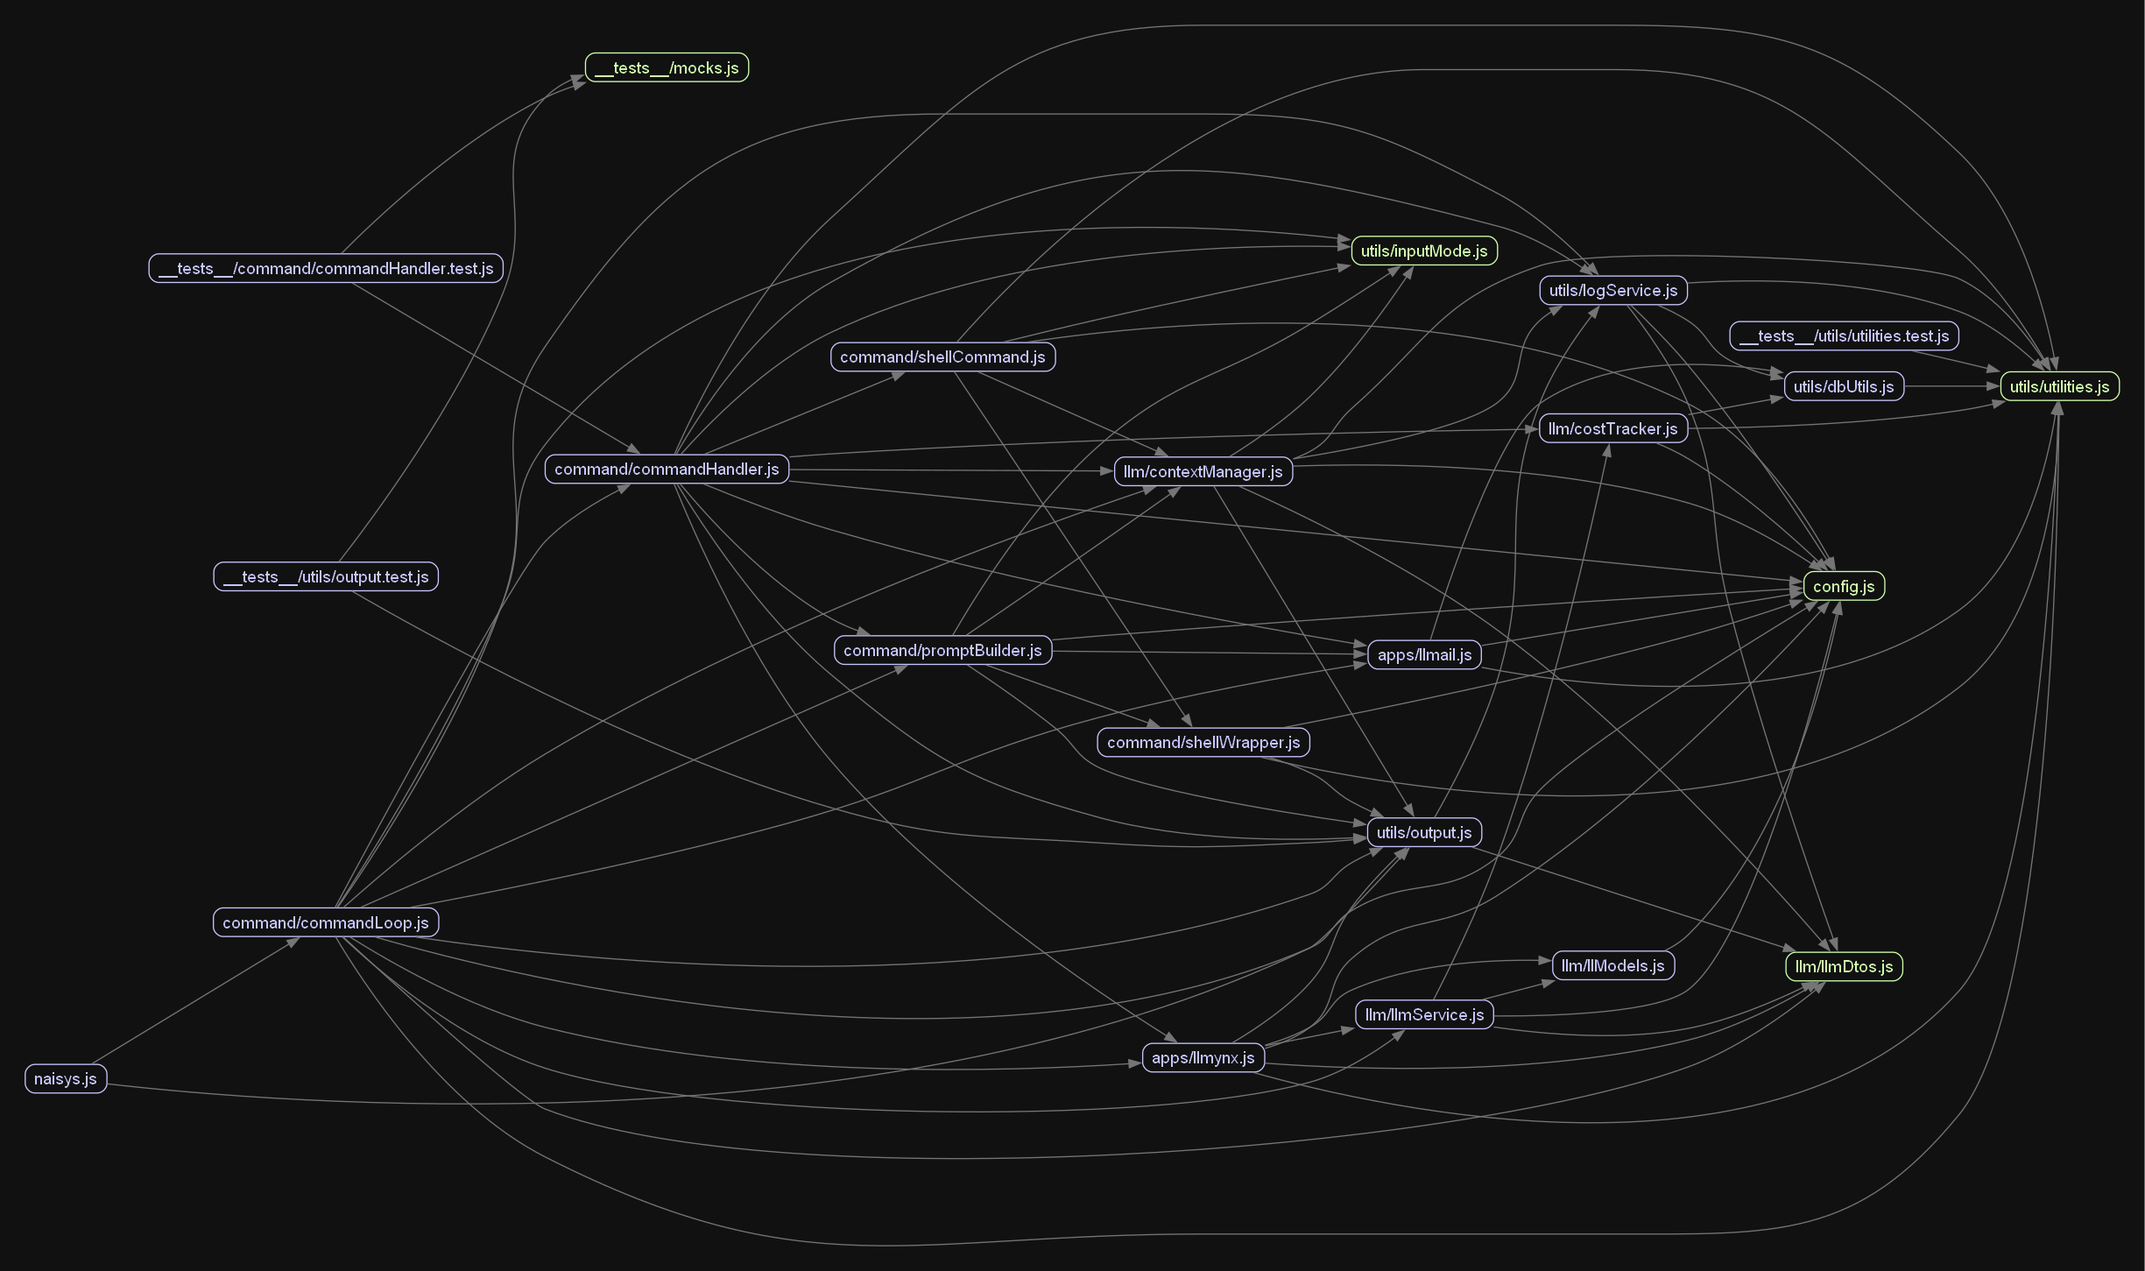
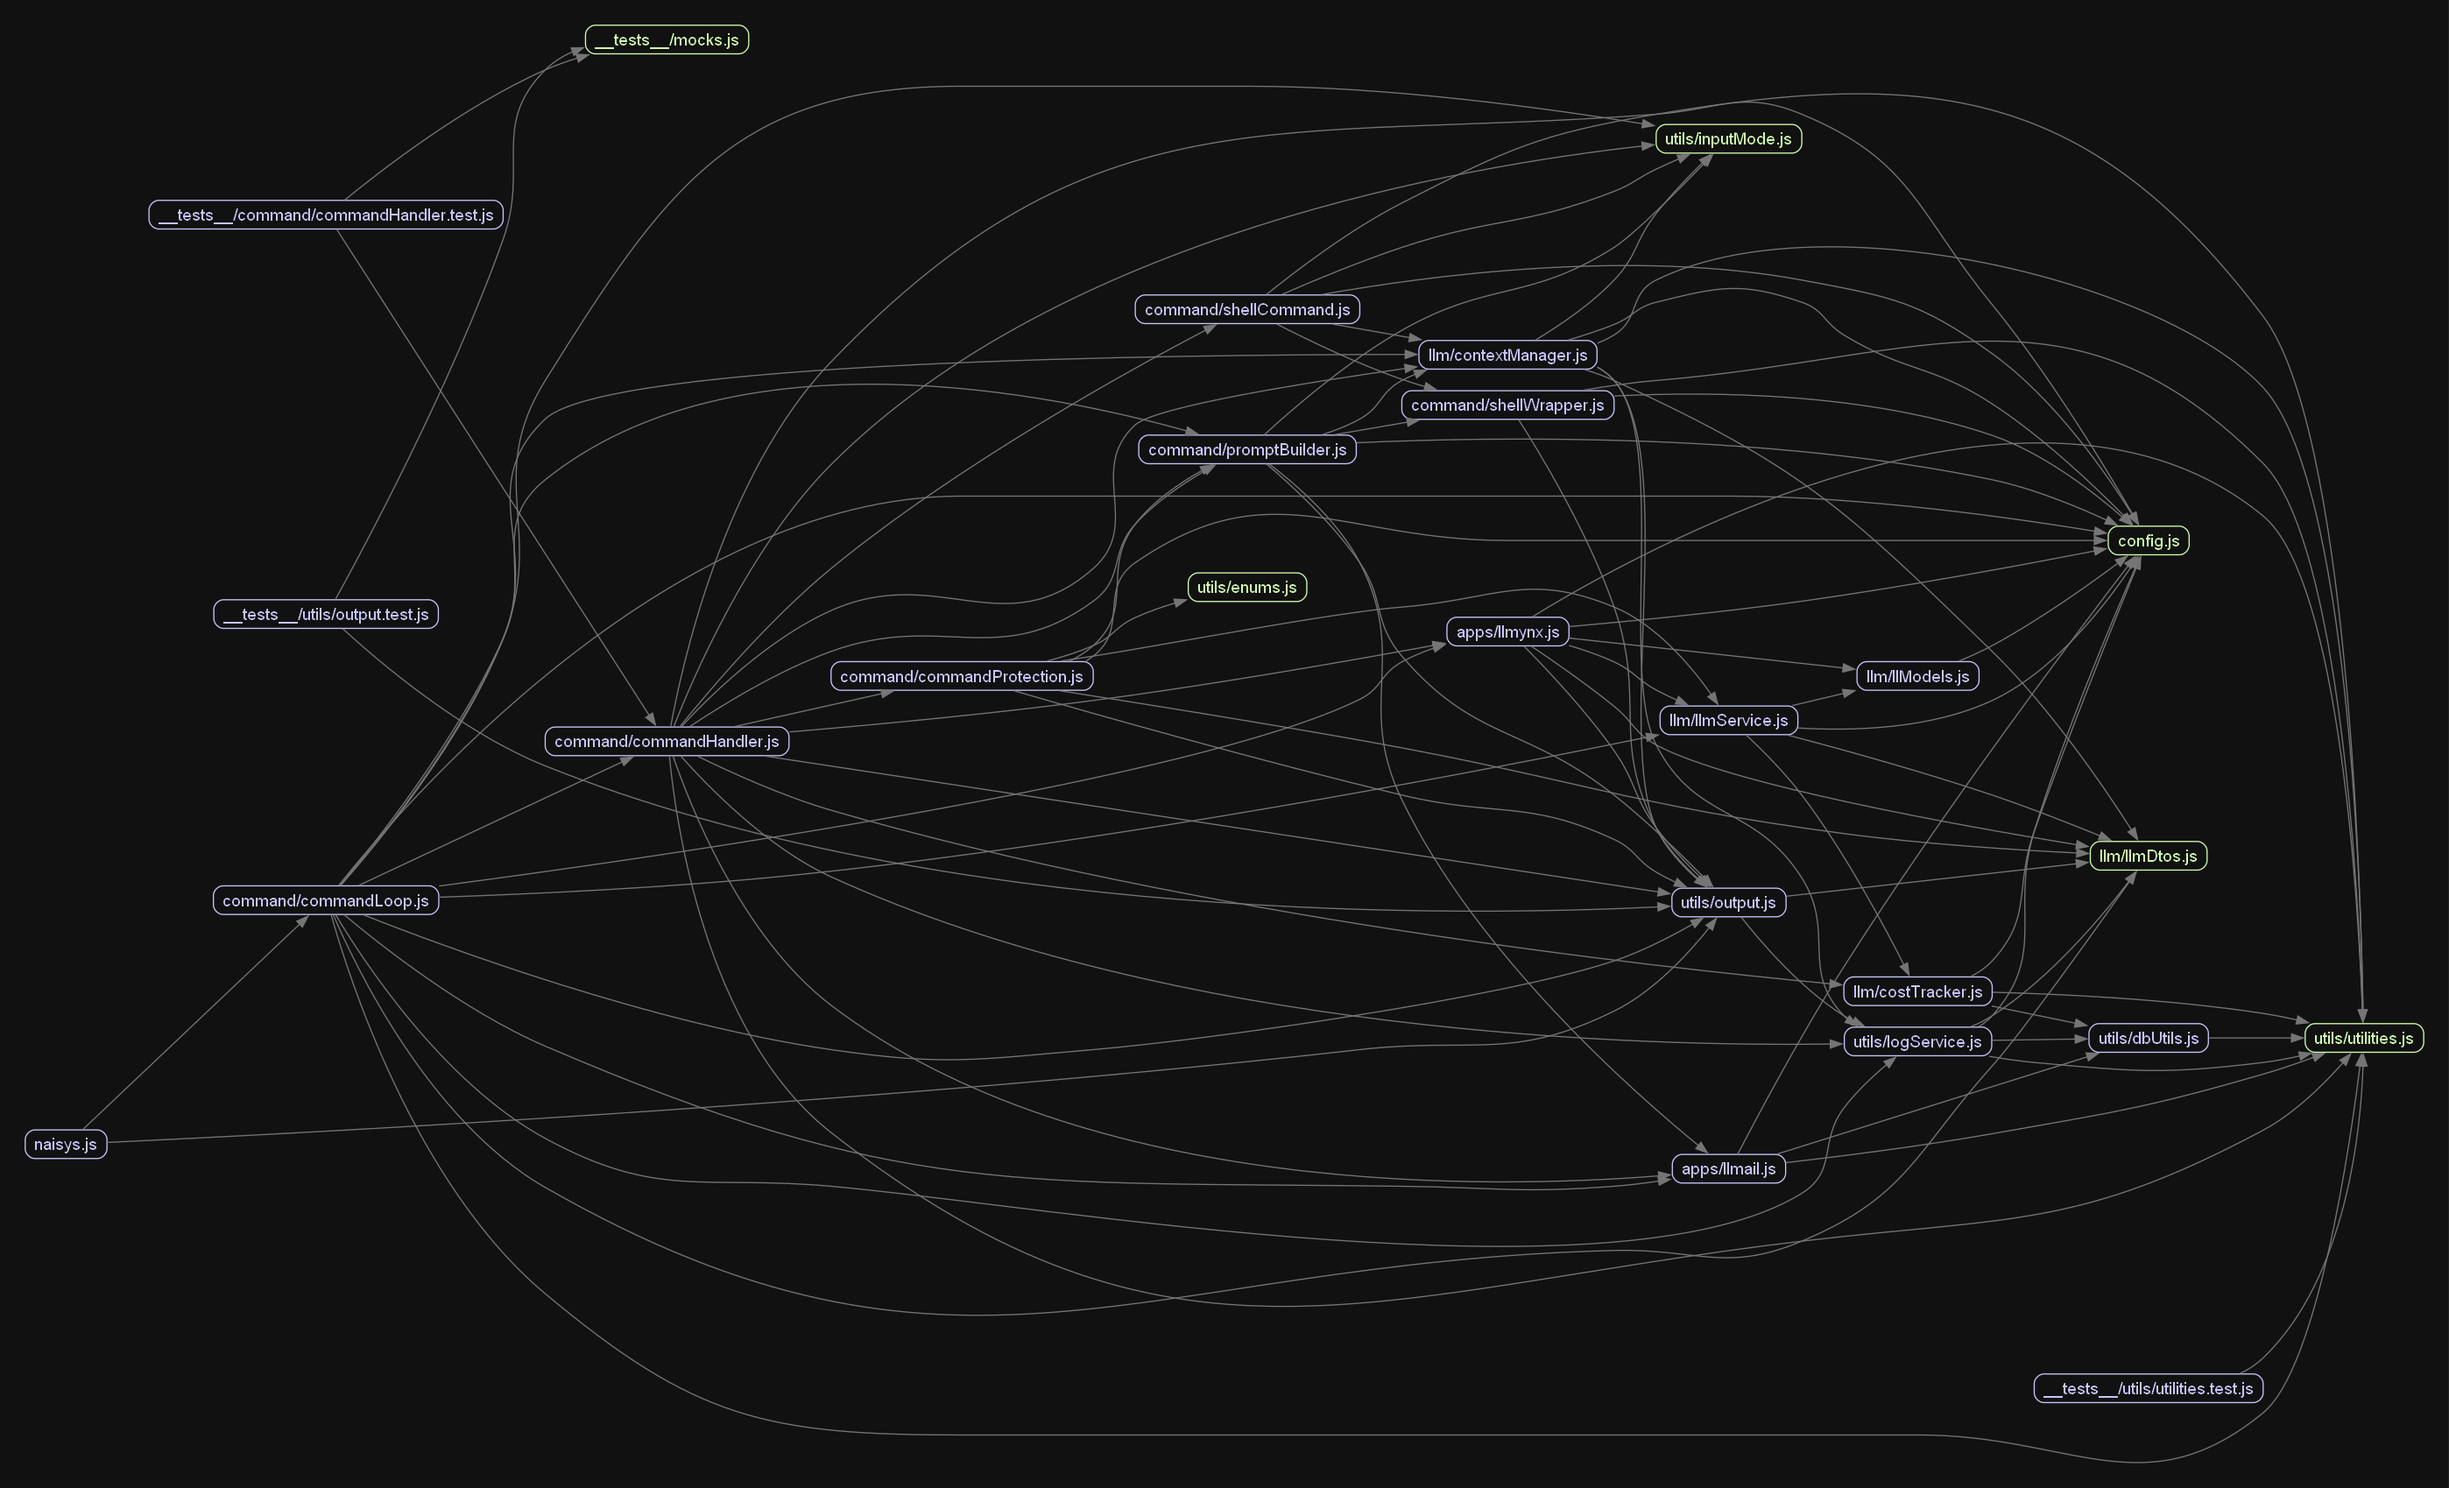
Added manual and auto command protection Auto uses a separate LLM to validate the command does not modify the system Only show user list if more than one agent on system Rename consoleModel to shellModel

diff --git a/src/command/commandLoop.ts b/src/command/commandLoop.ts
@@ -21,7 +21,7 @@ const maxErrorCount = 5;
 export async function run() {
   // Show Agent Config exept the agent prompt
   await output.commentAndLog(
-    `Agent configured to use ${config.agent.consoleModel} model`,
+    `Agent configured to use ${config.agent.shellModel} model`,
   );
 
   // Show System Message
@@ -45,13 +45,13 @@ export async function run() {
     await contextManager.append("Previous Session Note:");
     await contextManager.append(commandHandler.previousSessionNotes || "None");
 
-    if (config.agent.mailHelpOnStart) {
-      await commandHandler.consoleInput(
+    if (await llmail.hasMultipleUsers()) {
+      await commandHandler.processCommand(
         await promptBuilder.getPrompt(),
         "llmail help",
       );
 
-      await commandHandler.consoleInput(
+      await commandHandler.processCommand(
         await promptBuilder.getPrompt(),
         "llmail users",
       );
@@ -64,11 +64,11 @@ export async function run() {
 
     while (nextCommandAction == NextCommandAction.Continue) {
       const prompt = await promptBuilder.getPrompt(pauseSeconds, wakeOnMessage);
-      let input = "";
+      let consoleInput = "";
 
       // Debug command prompt
       if (inputMode.current === InputMode.Debug) {
-        input = await promptBuilder.getInput(
+        consoleInput = await promptBuilder.getInput(
           `${prompt}`,
           pauseSeconds,
           wakeOnMessage,
@@ -79,19 +79,19 @@ export async function run() {
         const workingMsg =
           prompt +
           chalk[output.OutputColor.loading](
-            `LLM (${config.agent.consoleModel}) Working...`,
+            `LLM (${config.agent.shellModel}) Working...`,
           );
 
         try {
-          await displayNewMail();
-          await displayContextWarning();
+          await checkNewMailNotification();
+          await checkContextLimitWarning();
 
           await contextManager.append(prompt, ContentSource.ConsolePrompt);
 
           process.stdout.write(workingMsg);
 
-          input = await llmService.query(
-            config.agent.consoleModel,
+          consoleInput = await llmService.query(
+            config.agent.shellModel,
             contextManager.getSystemMessage(),
             contextManager.messages,
             "console",
@@ -114,7 +114,7 @@ export async function run() {
       // Run the command
       try {
         ({ nextCommandAction, pauseSeconds, wakeOnMessage } =
-          await commandHandler.consoleInput(prompt, input));
+          await commandHandler.processCommand(prompt, consoleInput));
 
         if (inputMode.current == InputMode.LLM) {
           llmErrorCount = 0;
@@ -128,7 +128,7 @@ export async function run() {
       // If the user is in debug mode and they didn't enter anything, switch to LLM
       // If in LLM mode, auto switch back to debug
       if (
-        (inputMode.current == InputMode.Debug && !input) ||
+        (inputMode.current == InputMode.Debug && !consoleInput) ||
         inputMode.current == InputMode.LLM
       ) {
         inputMode.toggle();
@@ -197,7 +197,7 @@ async function handleErrorAndSwitchToDebugMode(
   };
 }
 
-async function displayNewMail() {
+async function checkNewMailNotification() {
   // Check for unread threads
   const unreadThreads = await llmail.getUnreadThreads();
   if (!unreadThreads.length) {
@@ -250,7 +250,7 @@ async function displayNewMail() {
   }
 }
 
-async function displayContextWarning() {
+async function checkContextLimitWarning() {
   const tokenCount = contextManager.getTokenCount();
   const tokenMax = config.agent.tokenMax;
 

diff --git a/src/config.ts b/src/config.ts
@@ -2,6 +2,7 @@ import { program } from "commander";
 import dotenv from "dotenv";
 import * as fs from "fs";
 import yaml from "js-yaml";
+import { CommandProtection } from "./utils/enums.js";
 import { valueFromString } from "./utils/utilities.js";
 
 program.argument("<agent-path>", "Path to agent configuration file").parse();
@@ -27,18 +28,10 @@ export const anthropicApiKey = getEnv("ANTHROPIC_API_KEY");
 
 export const agent = loadAgentConfig();
 
-function getEnv(key: string, required?: boolean) {
-  const value = process.env[key];
-  if (!value && required) {
-    throw `Config: Error, .env ${key} is not defined`;
-  }
-  return value;
-}
-
 interface AgentConfig {
   username: string;
   title: string;
-  consoleModel: string;
+  shellModel: string;
   webModel: string;
   agentPrompt: string;
   spendLimitDollars: number;
@@ -46,7 +39,7 @@ interface AgentConfig {
   /** Seconds to pause on the debug prompt before continuing LLM. No value or zero implies indefinite wait (debug driven) */
   debugPauseSeconds?: number;
   wakeOnMessage?: boolean;
-  mailHelpOnStart?: boolean;
+  commandProtection?: CommandProtection;
 }
 
 function loadAgentConfig() {
@@ -60,21 +53,28 @@ function loadAgentConfig() {
   for (const key of [
     "username",
     "title",
-    "consoleModel",
+    "shellModel",
     "webModel",
     "agentPrompt",
     "spendLimitDollars",
     "tokenMax",
-    // debugPauseSeconds and wakeOnMessage can be undefined
+    // other properties can be undefined
   ]) {
     if (!valueFromString(checkAgentConfig, key)) {
       throw `Agent config: Error, ${key} is not defined`;
     }
   }
 
-  // Because this is a new config option and the previous default was true
-  if (checkAgentConfig.mailHelpOnStart === undefined) {
-    checkAgentConfig.mailHelpOnStart = true;
+  if (!checkAgentConfig.commandProtection) {
+    checkAgentConfig.commandProtection = CommandProtection.None;
+  }
+
+  if (
+    !Object.values(CommandProtection).includes(
+      checkAgentConfig.commandProtection,
+    )
+  ) {
+    throw `Agent config: Error, 'commandProtection' is not a valid value`;
   }
 
   return checkAgentConfig;
@@ -94,4 +94,12 @@ async function getVersion() {
   } catch (e) {
     return "0.1";
   }
+}
+
+function getEnv(key: string, required?: boolean) {
+  const value = process.env[key];
+  if (!value && required) {
+    throw `Config: Error, .env ${key} is not defined`;
+  }
+  return value;
 }

diff --git a/src/command/commandProtection.ts b/src/command/commandProtection.ts
@@ -1,0 +1,68 @@
+import * as config from "../config.js";
+import { LlmRole } from "../llm/llmDtos.js";
+import * as llmService from "../llm/llmService.js";
+import { CommandProtection } from "../utils/enums.js";
+import * as output from "../utils/output.js";
+import * as promptBuilder from "./promptBuilder.js";
+
+interface ValidateCommandResponse {
+  commandAllowed: boolean;
+  rejectReason?: string;
+}
+
+export async function validateCommand(
+  command: string,
+): Promise<ValidateCommandResponse> {
+  switch (config.agent.commandProtection) {
+    case CommandProtection.None:
+      return {
+        commandAllowed: true,
+      };
+    case CommandProtection.Manual: {
+      const confirmation = await promptBuilder.getCommandConfirmation();
+      const commandAllowed = confirmation.toLowerCase() === "y";
+      return {
+        commandAllowed,
+        rejectReason: commandAllowed ? undefined : "Command denied by admin",
+      };
+    }
+    case CommandProtection.Auto:
+      return await autoValidateCommand(command);
+    default:
+      throw "Write protection not configured correctly";
+  }
+}
+
+async function autoValidateCommand(
+  command: string,
+): Promise<ValidateCommandResponse> {
+  output.comment("Checking if command is allowed...");
+
+  const systemMessage = `You are a command validator that checks if shell commands are ok to run.
+The user is 'junior admin' allowed to move around the system, anywhere, and read anything, list anything.
+They are not allowed to execute programs that could modify the system.
+Programs that just give information responses are ok.
+The user is allowed to write to their home directory in ${config.naisysFolder}/home/${config.agent.username}
+In addition to the commands you know are ok, these additional commands are whitelisted: 
+  llmail, llmynx, comment, endsession, and pause
+Reply with 'allow' to allow the command, otherwise you can give a reason for your rejection.`;
+
+  const response = await llmService.query(
+    config.agent.shellModel,
+    systemMessage,
+    [
+      {
+        role: LlmRole.User,
+        content: command,
+      },
+    ],
+    "write-protection",
+  );
+
+  const commandAllowed = response.toLocaleLowerCase().startsWith("allow");
+
+  return {
+    commandAllowed,
+    rejectReason: commandAllowed ? undefined : "Command Rejected: " + response,
+  };
+}

diff --git a/src/command/commandHandler.ts b/src/command/commandHandler.ts
@@ -11,6 +11,7 @@ import * as logService from "../utils/logService.js";
 import * as output from "../utils/output.js";
 import { OutputColor } from "../utils/output.js";
 import * as utilities from "../utils/utilities.js";
+import * as commandProtection from "./commandProtection.js";
 import * as promptBuilder from "./promptBuilder.js";
 import * as shellCommand from "./shellCommand.js";
 
@@ -28,7 +29,7 @@ interface NextCommandResponse {
 
 export let previousSessionNotes = await logService.getPreviousEndSessionNote();
 
-export async function consoleInput(
+export async function processCommand(
   prompt: string,
   consoleInput: string,
 ): Promise<NextCommandResponse> {
@@ -66,6 +67,16 @@ export async function consoleInput(
           "Continuing with next command from same LLM response...",
         );
         await contextManager.append(input, ContentSource.LLM);
+      }
+
+      // Run write protection checks if enabled
+      const { commandAllowed, rejectReason } =
+        await commandProtection.validateCommand(input);
+
+      if (!commandAllowed) {
+        await output.errorAndLog(`Write Protection Triggered`);
+        await contextManager.append(rejectReason || "Unknown");
+        break;
       }
     }
 

diff --git a/src/apps/llmail.ts b/src/apps/llmail.ts
@@ -482,3 +482,11 @@ function validateMsgTokenCount(message: string) {
 async function usingDatabase<T>(run: (db: Database) => Promise<T>): Promise<T> {
   return dbUtils.usingDatabase(_dbFilePath, run);
 }
+
+export async function hasMultipleUsers(): Promise<boolean> {
+  return await usingDatabase(async (db) => {
+    const users = await db.all("SELECT * FROM Users");
+
+    return users.length > 1;
+  });
+}

diff --git a/src/command/promptBuilder.ts b/src/command/promptBuilder.ts
@@ -172,3 +172,14 @@ export function getInput(
     }
   });
 }
+
+export function getCommandConfirmation() {
+  return new Promise<string>((resolve) => {
+    _readlineInterface.question(
+      chalk.greenBright("Allow command to run? [y/n] "),
+      (answer) => {
+        resolve(answer);
+      },
+    );
+  });
+}

diff --git a/src/command/shellWrapper.ts b/src/command/shellWrapper.ts
@@ -185,7 +185,7 @@ function resetShell() {
 
   const outputWithError =
     _commandOutput.trim() +
-    `\n\nError: Command timed out after ${config.shellCommmandTimeoutSeconds} seconds.`;
+    `\nError: Command timed out after ${config.shellCommmandTimeoutSeconds} seconds.`;
 
   resetProcess();
 

diff --git a/src/utils/enums.ts b/src/utils/enums.ts
@@ -1,0 +1,8 @@
+/* To separate enums from services which is useful for mocking where the enum
+is used across the code base, but the service it originates from is mocked. */
+
+export enum CommandProtection {
+  None = "none",
+  Manual = "manual",
+  Auto = "auto",
+}

diff --git a/README.md b/README.md
@@ -61,7 +61,7 @@ title: Software Engineer
 
 # The model to use for console interactions
 # (gpt4turbo, gpt4turbo, gemini-pro, claude3sonnet, claude3opus, local)
-consoleModel: claude3sonnet
+shellModel: claude3sonnet
 
 # The model to use for llmynx, pre-processing websites to fit into a smaller context
 webModel: gpt3turbo
@@ -92,6 +92,12 @@ wakeOnMessage: false
 # The maximum amount to spend on LLM interactions
 # Once reached the agent will stop and this value will need to be increased to continue
 spendLimitDollars: 2.00
+
+# None: Commands from the LLM run automatically, this is the default setting as well if the value is not set
+# Manual: Every command the LLM wants you run you have to approve [y/n]
+# Auto: All commands are run through the separate LLM instace, commands that look like they'll modify the system are blocked
+commandProtection: 'none'
+
 # Additional custom variables can be defined here and/or in the .env file to be loaded into the agent prompt
 ```
 

diff --git a/CHANGELOG.md b/CHANGELOG.md
@@ -1,0 +1,9 @@
+# Changelog
+
+All notable changes to this project will be documented in this file. The format of this file is defined [here](https://keepachangelog.com/en/1.0.0/).
+
+## [1.1.0] - 2024-03-08
+
+- Added `commandProtection` to agent configuration. This can be set to `none`, `manual`, or `auto`
+  - `manual` asks for user confirmation before running a command
+  - `auto` validates the command through a separate LLM, denying any commands that look like they'll modify the system
